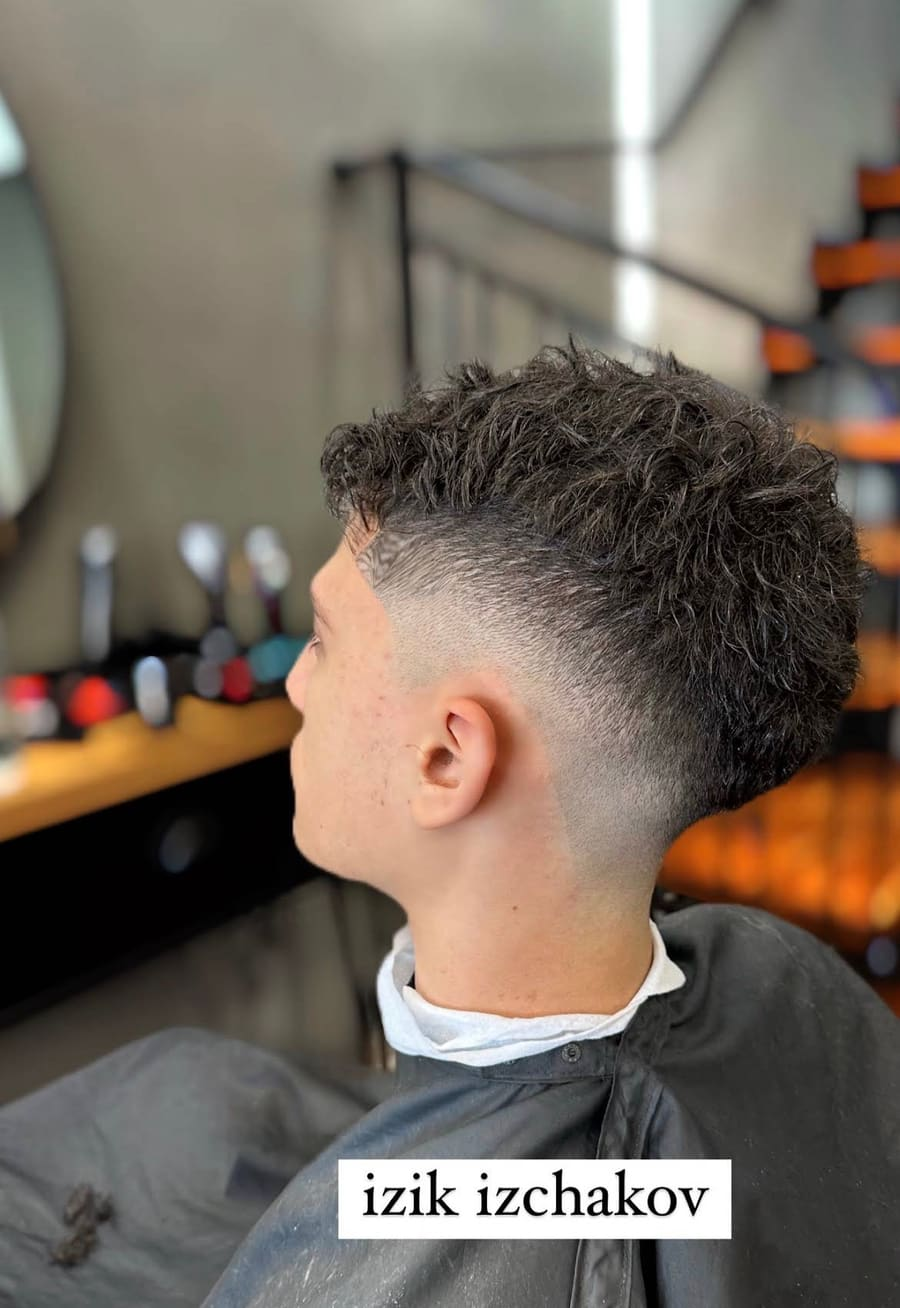
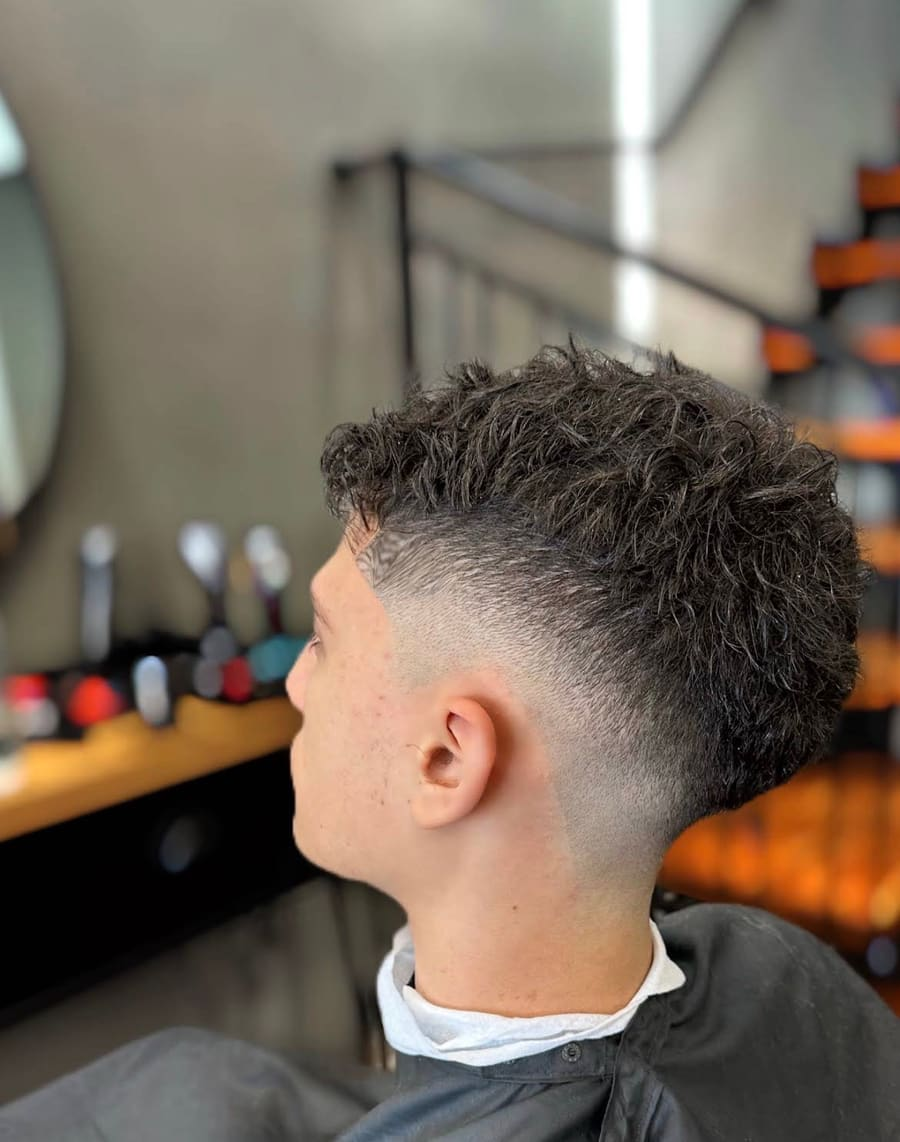
Remove overlays from gallery photos
Inpaint the "THE PREMIUM FADE" caption out of one photo, and crop the
"izik izchakov" caption and a corner watermark out of two others.

Claude-Session: https://claude.ai/code/session_013PrRigdDUAYThKsPQbMB6r

diff --git a/src/content/images.ts b/src/content/images.ts
@@ -31,13 +31,13 @@ const img = (name: string, width: number, height: number, he: string, en: string
 });
 
 export const GALLERY: SiteImage[] = [
-  img("fade-beard-line", 900, 1182, "פייד גבוה עם זקן מעוצב וקו חד בלחי", "High fade with a shaped beard and a sharp cheek line"),
+  img("fade-beard-line", 900, 988, "פייד גבוה עם זקן מעוצב וקו חד בלחי", "High fade with a shaped beard and a sharp cheek line"),
   img("curls-highlights", 900, 1158, "תלתלים עם גוונים, טייפר וזקן קצר", "Curls with highlights, a taper and a short beard"),
   img("fade-back", 900, 1671, "פייד קצר, מבט מאחור", "Short fade, seen from the back"),
   img("taper-beard", 900, 1151, "טייפר נמוך עם זקן מסודר", "Low taper with a neat beard"),
   img("premium-fade-beard", 900, 978, "פייד קצר עם זקן מלא ומעוצב", "Short fade with a full, shaped beard"),
   img("fringe-high-fade", 900, 1159, "פוני ארוך עם פייד גבוה", "Long fringe with a high fade"),
-  img("curly-fade", 900, 1308, "שיער מתולתל למעלה עם פייד בצדדים", "Curly top with a fade on the sides"),
+  img("curly-fade", 900, 1142, "שיער מתולתל למעלה עם פייד בצדדים", "Curly top with a fade on the sides"),
   img("crop-high-fade", 900, 1166, "תספורת קצרה עם פייד גבוה וזקן קצר", "Short crop with a high fade and a short beard"),
   img("taper-beard-side", 900, 1188, "תספורת קצרה עם טייפר וזקן, מבט מהצד", "Short cut with a taper and beard, side view"),
   img("taper-back-mirror", 900, 1166, "טייפר מאחור, מול המראה במספרה", "Taper from the back, in front of the shop mirror"),
